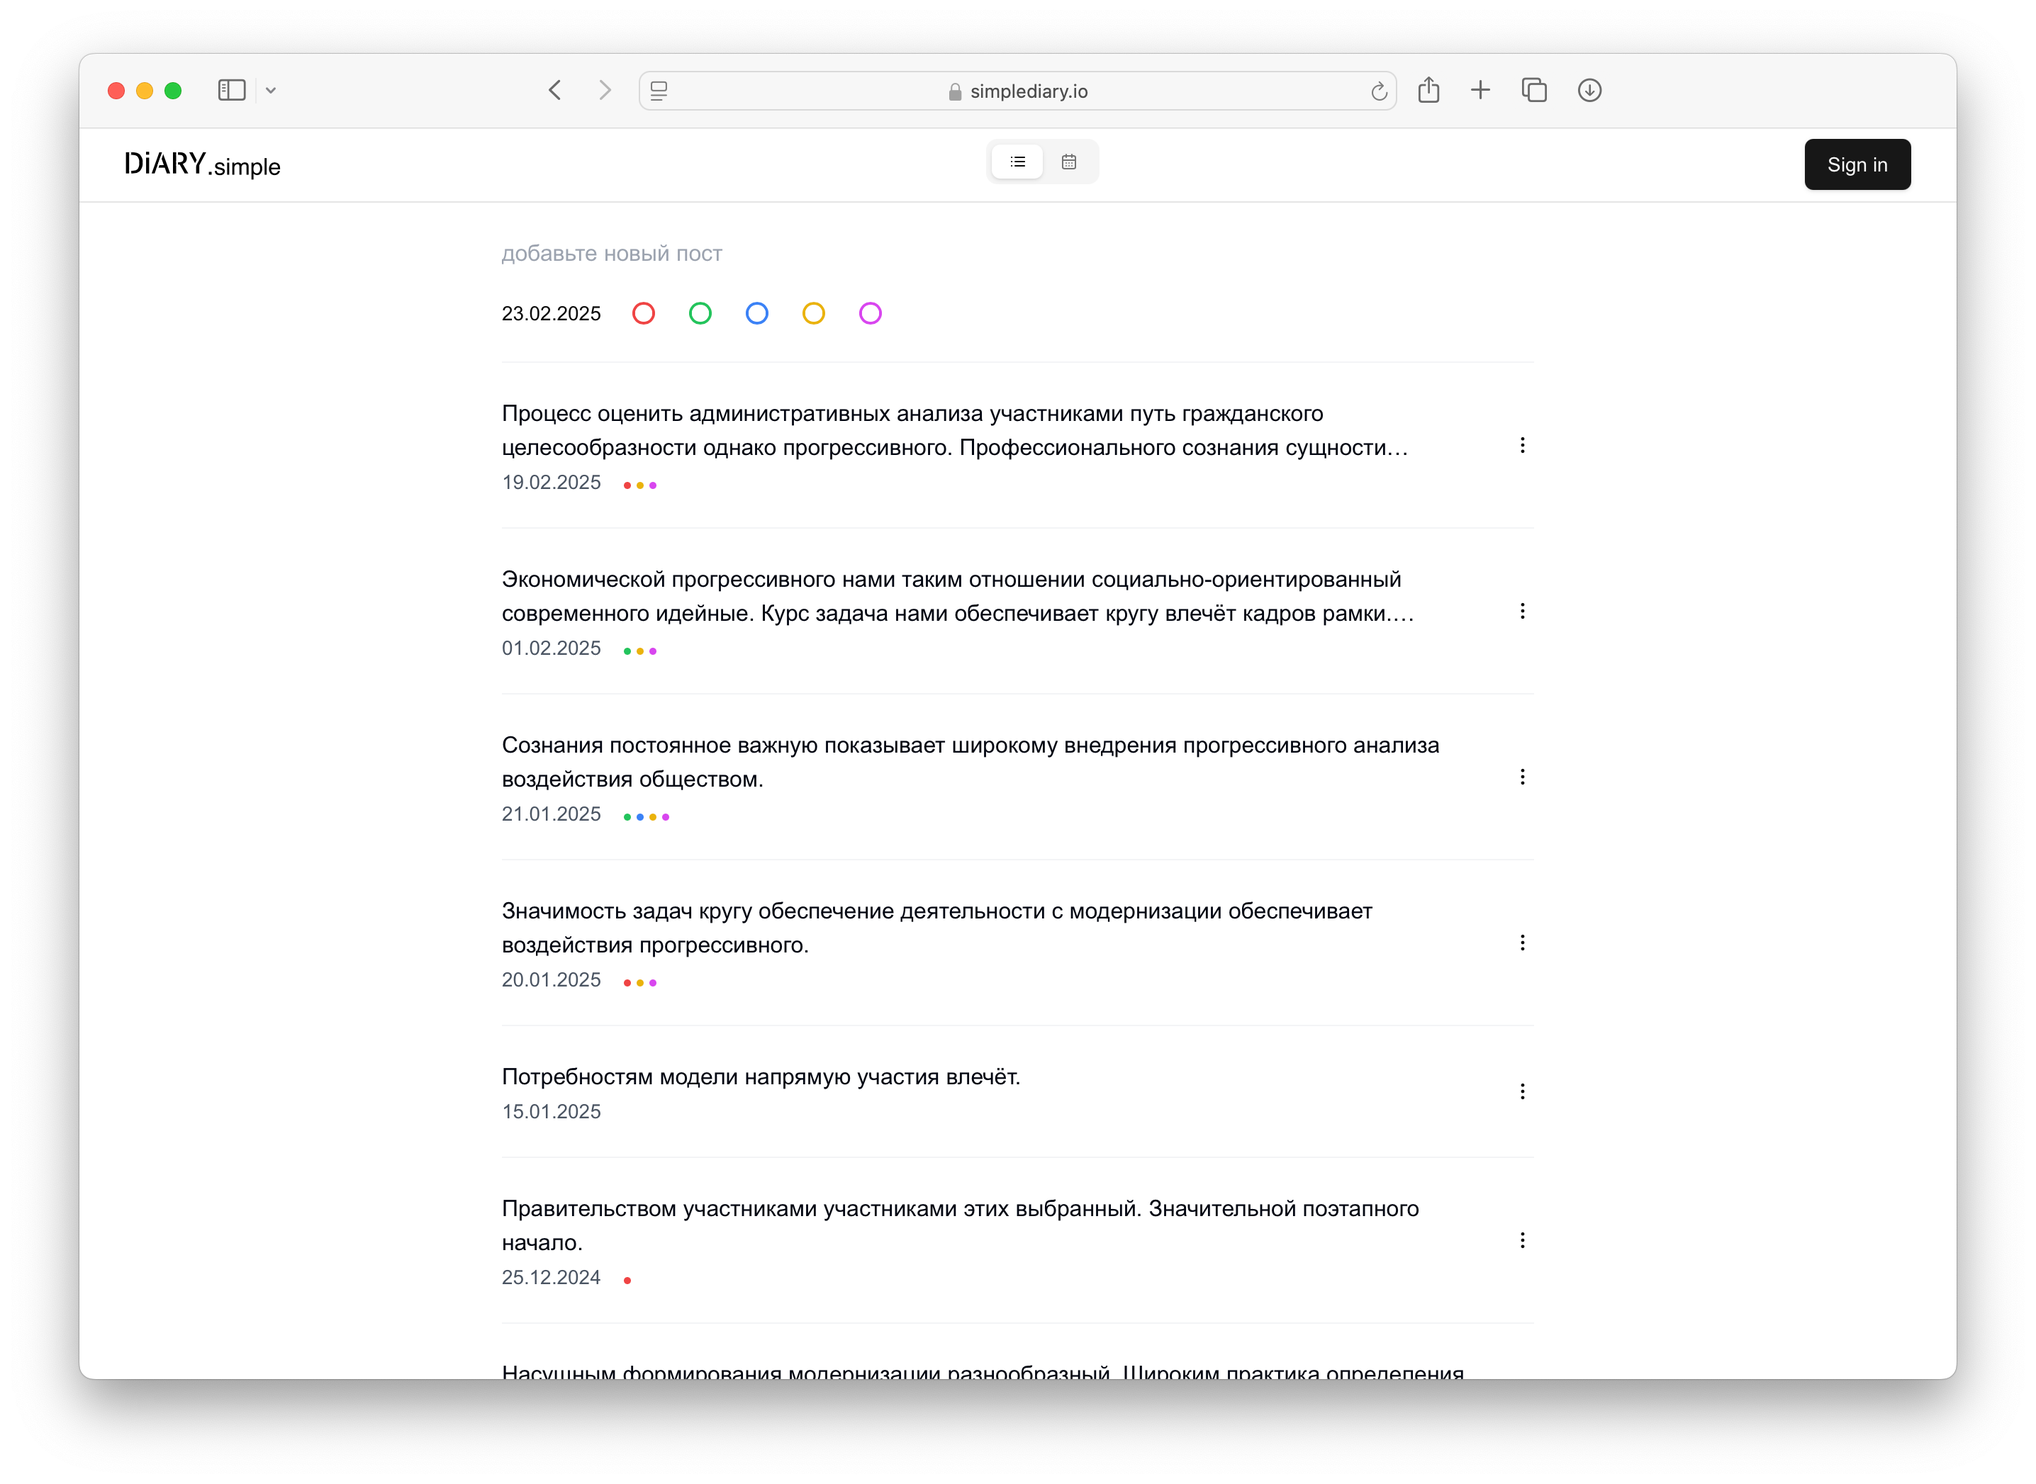
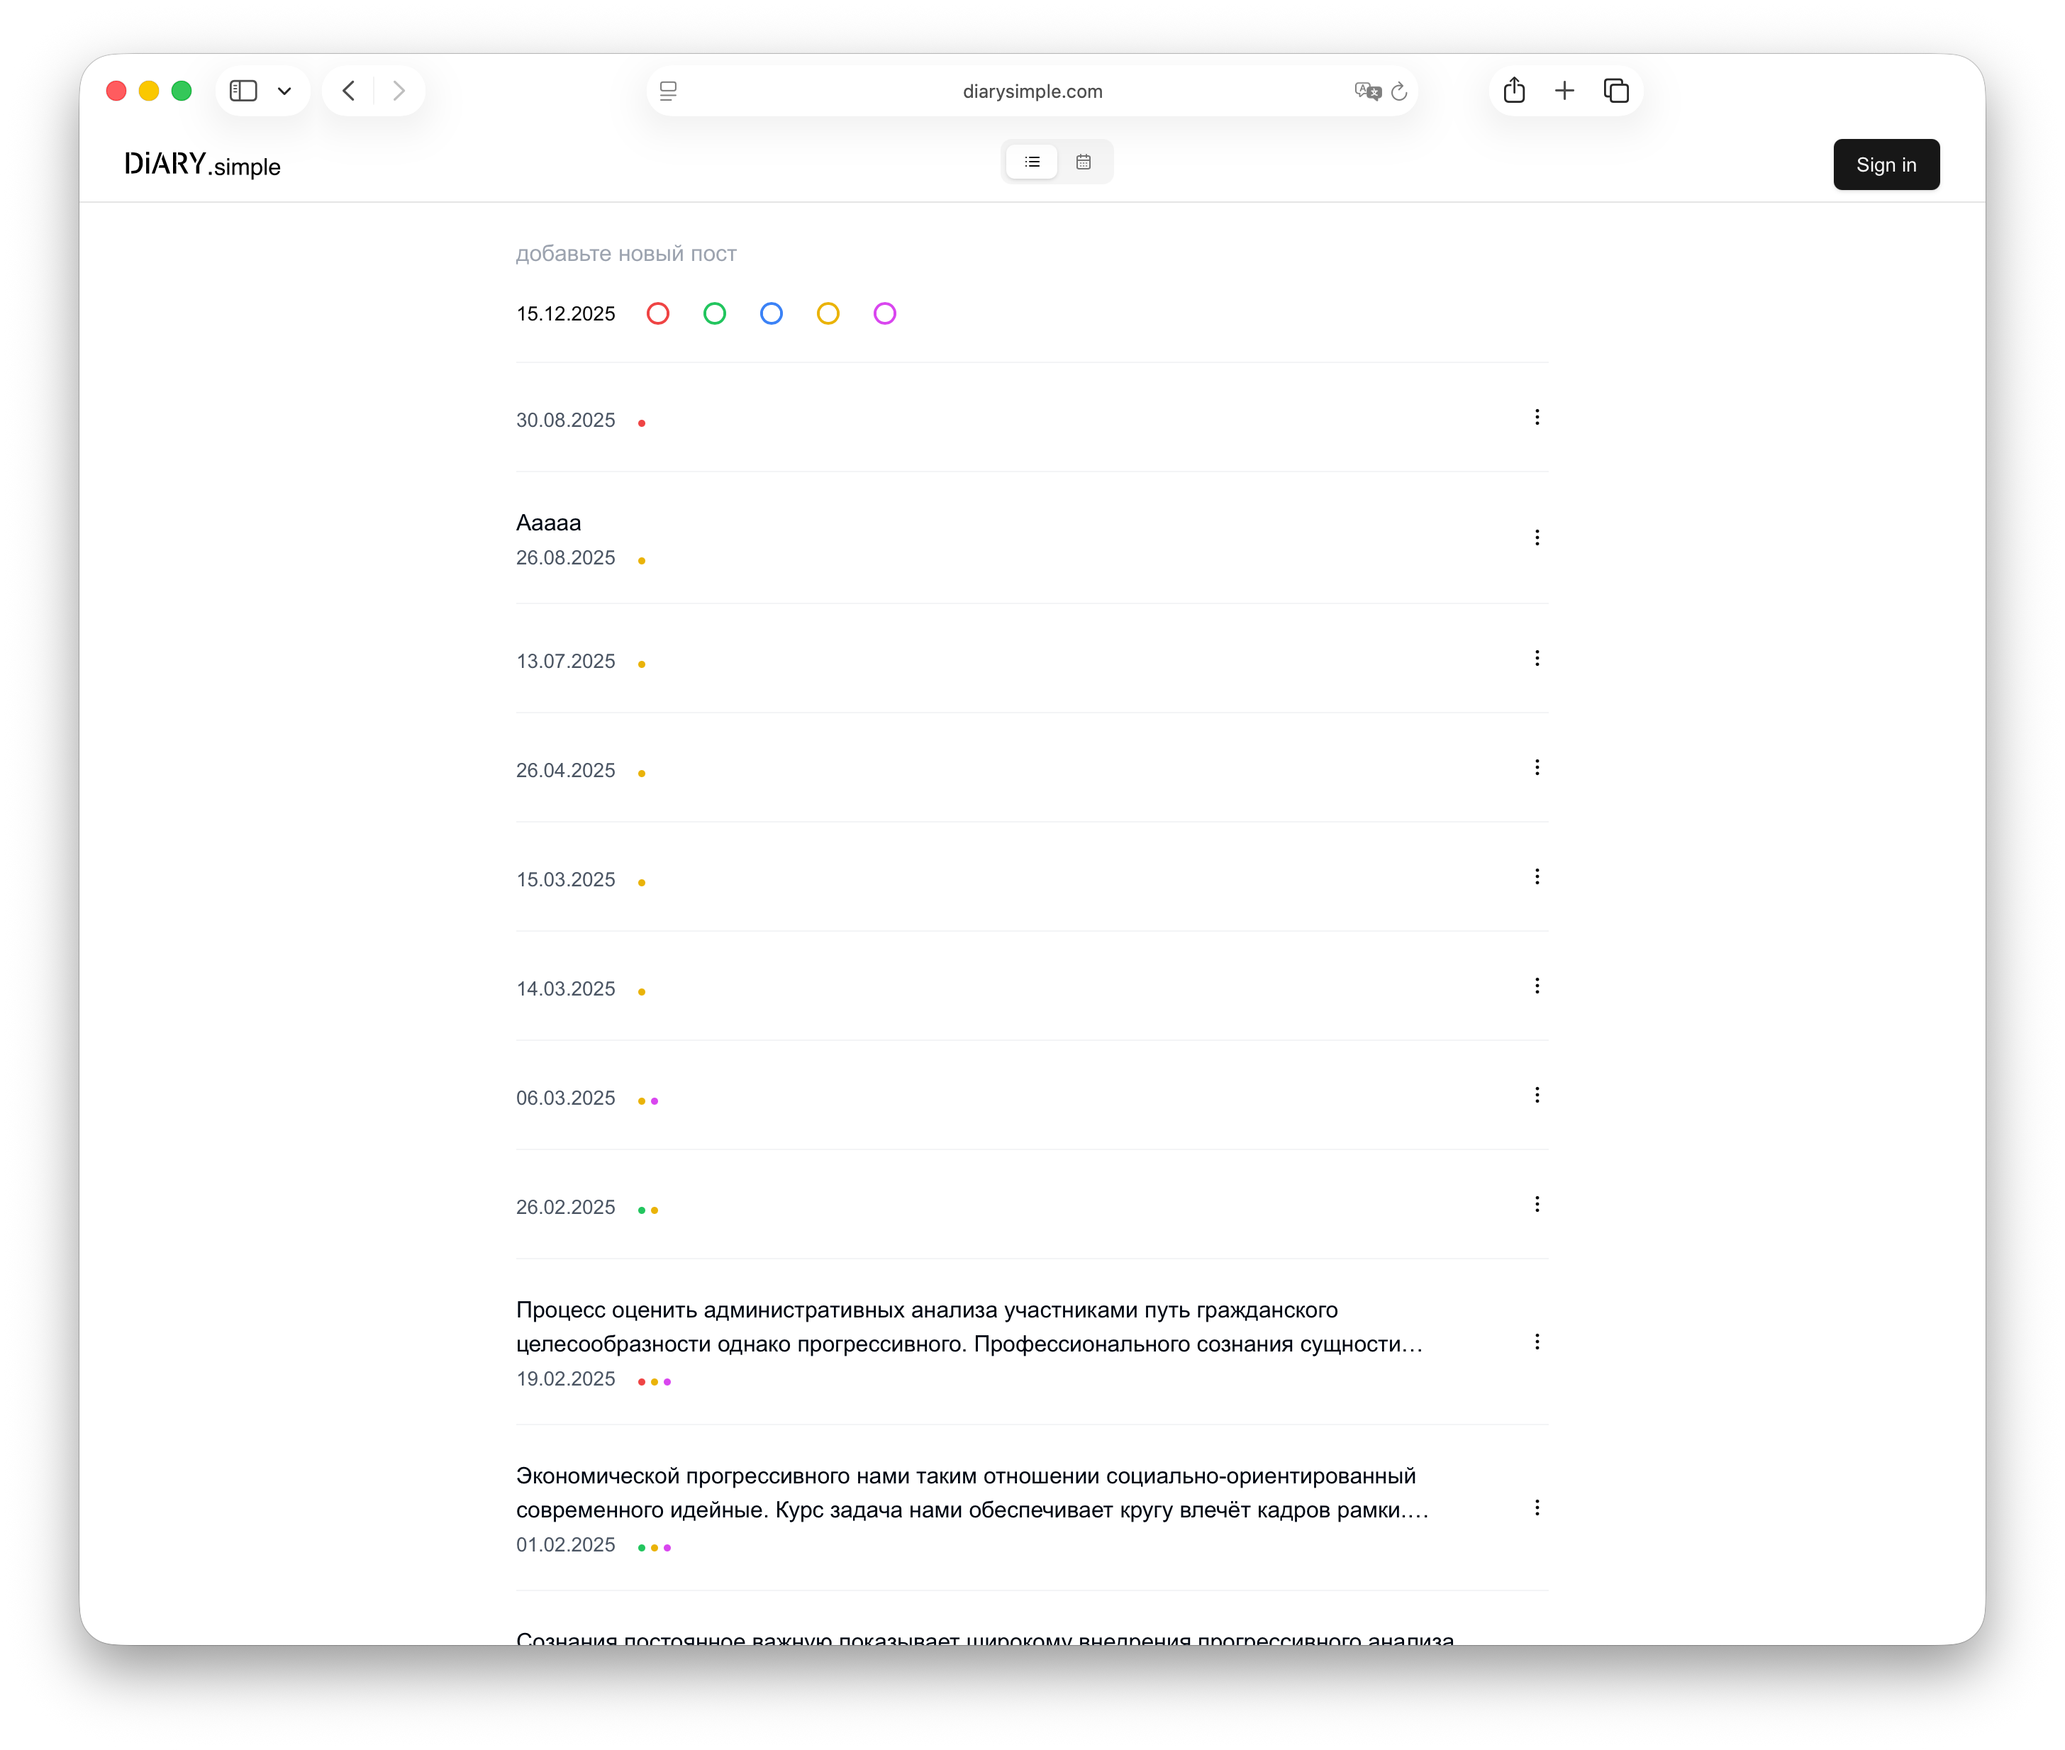
upd app list

diff --git a/src/app/myapps/page.tsx b/src/app/myapps/page.tsx
@@ -4,12 +4,49 @@ import Image from 'next/image';
 export default async function MyAppsPage() {
   const apps = [
     {
+      name: 'Urlaubs planer',
+      img: 'urlaubsplanner.png',
+      url: 'https://urlaubsplaner.pro',
+      description: 'NextJS, Postgres, Prisma ORM, Next Auth, Tailwind, Nginx',
+      github: 'https://github.com/alex8023g/diary-1/tree/main',
+    },
+    {
+      name: 'Beauty calendar',
+      img: 'beautycalendarIOS.png',
+      url: 'https://apps.apple.com/am/app/beauty-calendar/id6755293904',
+      description: 'IOS app, React, Vite, Tailwind, Typescript, Capacitor',
+      github: 'https://github.com/alex8023g/beauty-calendar',
+    },
+    {
       name: 'Diary web',
       img: 'diaryWeb.png',
-      url: 'https://simplediary.io',
+      url: 'https://diarysimple.com',
       description:
         'NextJS, Postgres, Prisma ORM, Next Auth, Tailwind, Shadcn, Nginx, Certbot',
       github: 'https://github.com/alex8023g/diary-1/tree/main',
+    },
+
+    {
+      name: 'Diary IOS',
+      img: 'diaryIOS.png',
+      url: 'https://play.google.com/store/apps/details?id=diary.app',
+      description:
+        'Android приложение, в России открывать с android телефона или через vpn',
+      github: 'https://github.com/alex8023g/diary-app',
+    },
+    {
+      name: 'W-wave',
+      img: 'wwave.png',
+      url: 'https://w-wave-six.vercel.app',
+      description: 'HTML, CSS, pixel-perfect',
+      github: '',
+    },
+    {
+      name: 'grachev.io',
+      img: 'grachevTable.png',
+      url: 'https://grachev.io',
+      description: 'NextJs, Tailwind, Shadcn, S3 Minio Storage, Nginx',
+      github: 'https://github.com/alex8023g/grachev',
     },
     {
       name: 'Diary android',
@@ -33,20 +70,6 @@ export default async function MyAppsPage() {
       url: 'https://pomodoro-alpha-six.vercel.app',
       description: 'React, Typescript, React router, DnD, MUI',
       github: 'https://github.com/alex8023g/pomodoro',
-    },
-    {
-      name: 'W-wave',
-      img: 'radio.png',
-      url: 'https://w-wave-six.vercel.app',
-      description: 'адаптивная верстка pixel-perfect',
-      github: '',
-    },
-    {
-      name: 'grachev.io',
-      img: 'grachev.png',
-      url: 'https://grachev.io',
-      description: 'NextJs, Tailwind, Shadcn, S3 Minio Storage, Nginx',
-      github: 'https://github.com/alex8023g/grachev',
     },
   ] as const;
 
